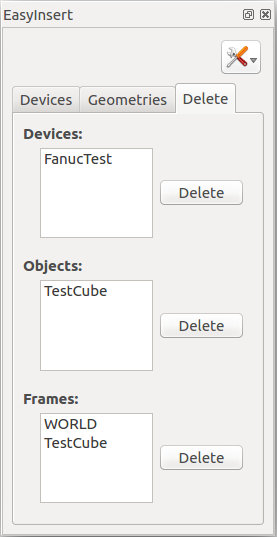
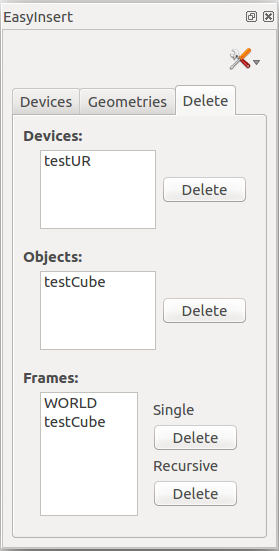
Soon done

diff --git a/Rapport/Standardfiler/The_GUI.tex b/Rapport/Standardfiler/The_GUI.tex
@@ -126,75 +126,10 @@ The dialog class can be extended formidably as a dialog library to create dialog
 
 \clearpage
 
-\section{The Plug-In}
 
-This section will explore the EasyInsert plugin created in this project. The user interface of the plugin will be explained while not going into much detail about how the those functionalities are made. When the use of the plugin has been explained, the section will delve into the implementation of the plugin. The plugin uses the stand alone classes creator, loader and dialog to achieve many of it's functionalities, while relying on the Qt library to set up the GUI elements and the RW libraries. Lastly the future of the plugin will be discussed in this section.
 	
-\subsection{The User Interface}
-\label{sec:UserInterface}
-This section explores the user interface of the plugin. When the plugin is loaded and opened, the user is met with figure~\ref{fig:EasyInsertDevice}. This is the Device tab of EasyInsert and from here it is possible to select a device listed and load it into the WorkCell by pressing the Load button. Upon pressing Load, the user is prompted with a dialog window where the user can specify options about the loaded device. Figure~\ref{fig:loadDialog} is the exact dialog window the user would see after selecting a device and pressing the load button. The user can now give the device a unique name, select a frame that the device should be on and specify the configurations such as displacement and rotation. A user can now select e.g. a fanuc robot arm, as the one on figure~\ref{fig:FANUCLRM200}, and insert it. Afterwards the user can then select another device, let's say some kind of hand device, and now insert that device on the end frame of the fanuc. The hand device now acts as the end effector of the fanuc, which only took a few clicks to set up. 
-
-\begin{figure}[h] % 3 figures of the tabs
-        \begin{subfigure}[b]{0.32\textwidth}
-                \centering
-                \includegraphics[width=.95\linewidth]{Figures/EasyInsertDevice.png}
-  				\caption{Devices}
- 				\label{fig:EasyInsertDevice}
-        \end{subfigure}%
-        \begin{subfigure}[b]{0.32\textwidth}
-                \centering
-                \includegraphics[width=.95\linewidth]{Figures/EasyInsertGeo.png}
-  				\caption{Geometries}
-  				\label{fig:EasyInsertGeo}
-        \end{subfigure}%
-        \begin{subfigure}[b]{0.32\textwidth}
-                \centering
-                \includegraphics[width=.95\linewidth]{Figures/EasyInsertDelete.png}
-  				\caption{Delete}
-  				\label{fig:EasyInsertDelete}
-        \end{subfigure}%
-        \caption{The three tabs a user can interact with in the plugin. In Devices it is possible to select and load a device. In Geometries the user can click an icon (representing a geometry) which then prompts a dialog window with options regarding the insertion of said geometry. In Delete a user can select either a Device, Object or Frame to delete it.}\label{fig:EasyInsertTabs}
-\end{figure}
-
-It should be noted, that the first time EasyInsert is loaded and opened, the device tab shows the root content of the operating system. Thus the user needs to change the path of the list shown in the Device tab to a path containing any desired devices. In the right top corner of the plugin is a tool bar button (the only button in the tool bar so far) called settings. Clicking this button and choosing Libraries will prompt the user with the dialog window on Figure~\ref{fig:settingsDialog}. The user can here see what path is used and change it with the [...] button. The [...] button shows a new dialog window where the user can navigate his/her OS and specify the path that should be shown in the device tab.\\
-
-\begin{figure}[h] % 3 figures of dialog windows
-     \centering
-     \begin{subfigure}[b]{0.45\textwidth}
-	  \includegraphics[scale=0.7]{Figures/EasyInsertCubeDialog.png}
-       \caption{Cube insertion dialog window}\label{fig:cubeDialog}
-     \end{subfigure}
-     \hfill
-     \begin{minipage}[b]{0.45\textwidth}
-       \begin{subfigure}[b]{\linewidth}
-	    \includegraphics[scale=0.7]{Figures/EasyInsertLoadDialog.png}
-         \caption{Device insertion dialog window}\label{fig:loadDialog}
-       \end{subfigure}\\[\baselineskip]
-       \begin{subfigure}[b]{\linewidth}
-	    \includegraphics[scale=0.7]{Figures/settingsDialogWindow.png}
-         \caption{Settings of device path dialog window}\label{fig:settingsDialog}
-       \end{subfigure}
-     \end{minipage}
-     \caption{Three, out of many, dialog windows the user can experience and interact with when using EasyInsert.}\label{fig:EasyInsertDialogs}
-\end{figure}
-
-The Geometries tab shows a grid of icons, see figure~\ref{fig:EasyInsertGeo}. These icons represent either geometric primitives or frames that can be inserted into the WorkCell. Currently there are the following objects in the geometric tab, from top row to bottom:
-\begin{enumerate*}[font={\color{red!50!black}\bfseries}]
-\item Cube.
-\item Cylinder.
-\item Cone.
-\item Plane.
-\item Sphere.
-\item Tube.
-\item Fixed frame.
-\item Movable frame.
-\end{enumerate*}
-These icons are all buttons the user can click, and after a click has occurred a dialog window appears with options regarding the insertion of said geometry. When the user hovers over a button in the Geometries tab, a tool tip identifying the icon appears, telling the user what sort of object it is. Figure~\ref{fig:cubeDialog} is the dialog window prompted when clicking the cube icon, and as seen, the user can specify a name for the geometry, select a reference frame and set the displacement and rotation configurations, just like when inserting a device. Though for a geometric primitive, like the cube, the user can also specify the dimensions of the geometric figure. The user can also specify whether the primitive should create a movable frame to associate the object with, or if the user want to use an existing frame.\\
-
-The delete tab, as seen on figure~\ref{fig:EasyInsertDelete}, is a tab where the user can select a device, object or a frame and press the Delete button to remove said item from the WorkCell. The Devices list, shown in the delete tab, shows a device name. This means that when the user deletes a device, the frames associated with that device are now "free", i.e. the device property is deleted, but the frames and objects are still in the WorkCell. These object and frames will now show up in the Object list and the Frames list of the delete tab, and the user can now remove the frames and objects from the WorkCell. The Object list of the delete tab only deletes objects, but if the user selects a frame from the Frame list and deletes it, all objects associated with that frame will also be deleted. Furthermore, if the user selects a frame from the Frames list and deletes it, all children of said frame will also be deleted. It should be noted, that the Frames list of the delete tab does not update properly because of an internal bug in RWS, this means that when the user deletes a frame, the frame will still appear in the list, but if the user looks in the TreeView plugin, or searches the WorkCell, the user will notice that the frame has actually been deleted. The user is then able to delete a frame twice, which will cause a segmentation error and crash RWS, this is further discussed in section~\ref{sec:eiProblems}
-
-\subsection{EasyInsert Implementation}
-This chapter will go through how EasyInsert achieved the functionalities and interfaces mentioned in section~\ref{sec:UserInterface} with the help from the dialog, creator and loader classes. 
+\section{Implementation of the User Interface}
+This chapter will go through how EasyInsert achieved the functionalities and interfaces mentioned in section~\ref{sec:UserInterface}. The plugin uses the RW libraries, the stand alone classes creator, loader and dialog to achieve many of it's functionalities, while relying on the Qt library to set up the GUI elements.\\ 
 
 On figure~\ref{fig:eiClass} the constructor for the plugin is seen. Before creating the widgets making up the plugin, all settings are set up with the setupSettings() function on line 4 (discussed in section~\ref{sec:Settings}). The parent widget of the plugin is then created which is a QScrollArea. A QScrollArea widget provides a scrolling view onto another widget (the child). The QScrollArea widget is created on line 5 and the widget is then set to be resizeable. When a QScrollArea is set to be resizeable, the child widget of the QScrollArea will automatically be resized so to either avoid scroll bars (decrease size of child) or utilize extra space (increase size of child). It should be noted that when QScrollArea has a composite child with a layout, the size policy of that layout will determine the size (or resize) of the widget. The composite child is created on line 7 and then a vertical layout is created. QToolbar is then created on line 9 using the createToolBar() function (discussed in section~\ref{sec:ToolBar}), the tool bar is then added to the layout and it is right aligned. On line 12 the QTabWidget is created, a QTabWidget is a widget with stacked tabs of widgets, where the user can select a tab and see the widget associated with that tab. To create a tab, a QWidget needs to be passed to the addTab function and a name can be given as well. On line 13 to 15 all the tabs are created with the help of createDevTab() (section~\ref{sec:DeviceTab}), createGeoTab() (section~\ref{sec:GeoTab}) and createDeleteTab() (section~\ref{sec:DelTab}) which all returns a QWidget. The QTabWidget is then added to the layout and set to the composite child which in turn is set to the QScrollArea widget and finally the QScrollArea widget is set to the QDockWidget of RWS(this happens when the plugin is loaded). 
 
@@ -227,7 +162,7 @@ EasyInsert::EasyInsert():
 \label{fig:eiClass} 	
 \end{figure}
 
-\subsubsection{Settings}
+\subsection{Settings}
 \label{sec:Settings}
 Defining settings for an application is a common thing. It was therefore decided that EasyInsert should have some way to set settings. Settings for the plugin is stored in a XML file. The only current setting a user can set is, as mention in~\ref{sec:UserInterface}, the path for the library in the device tab, which is also the 2. nice to have requirement and in turn indirectly also fulfils the need to have requirement 3.1. Though it should be easy to extend the plugin to have more settings, and even other utilities through the tool bar if needed.\\
 
@@ -298,7 +233,7 @@ if (settingsDialog->result() == QDialog::Accepted) {
 \label{fig:settingsCodeReturnDialog} 	
 \end{figure}
 
-\subsubsection{Tool Bar}
+\subsection{Tool Bar}
 \label{sec:ToolBar}
 The settings button, as noted in~\ref{sec:UserInterface}, is the only button available in the tool bar so far, and thus the extend of the tool bar will be shortly discussed in this chapter.
 The tool bar is constructed in the createToolBar() function (figure~\ref{fig:settingsToolBarCode}) and it is pretty straight forward. The only hiccup can be managing the menu's for the buttons in the tool bar. We create a tool bar with the QToolBar class and the buttons with QToolButton. After the toolbar and button(s) has been created, the icons and tool tips are set. On line 5 a QMenu is created, QMenu is a selection menu. Afterwards a QAction is created as well, which is an abstract user interface action that can be inserted into widgets. We then add the action to the menu. On line 8 the settingsButton gets the menu set, followed by a pop up mode selection. Lastly we add the settingsButton to the toolBar, and we connect the settingsAction to the settings() slot. The settings() slot is the function that creates the settings dialog window on figure~\ref{fig:settingsDialog} and waits for the user to select the settings, before saving them, like on figure~\ref{fig:settingsCodeReturnDialog}.
@@ -327,7 +262,7 @@ QToolBar* EasyInsert::createToolBar()
 \label{fig:settingsToolBarCode} 	
 \end{figure}
 
-\subsubsection{Devices Tab}
+\subsection{Devices Tab}
 \label{sec:DeviceTab}
 This section discusses the implementation of the Devices tab from figure~\ref{fig:EasyInsertDevice}, which also enables the 3. need to have requirement. The Devices tab is made with the function createDevTab(), which returns the composite widget making up the Devices tab. createDevTab() can be seen on figure~\ref{fig:deviceTabCode}.
 It should be noted that the procedure of setting up the widget is very similar to that of the EasyInsert constructor on figure~\ref{fig:eiClass}, i.e. using QScrollArea as the parent of a composite widget. Thus only the composite child will be discussed.  The composite child is created on line 5 and then a vertical layout is created. On line 7 a QListView is created, this is a widget that provides a list view onto a model. Afterwards a QFileSystemModel is created and put onto the list view. The QFileSystemModel provides a data model for the local file system. Following, the \_settingsMap with the Devices library path is read, and then used to set the root path on the model with the QFileSystemModel public function setRootPath(const QString \&newpath). This actually installs a QFileSystemWatcher to monitor the path and update the QFileSystemModel accordingly. The view of the QListView's root index is then set to the model's root path, so as the content of the QFilSystemModel is shown in the list. The load button is then created and connected to the loadDevice() slot which creates the dialog window shown on figure~\ref{fig:loadDialog}. Finally the widgets, the view and the button, are added to the layout and the composite widget gets the layout set. The composite widget has now been made, so the QScrollArea is then imposed onto the composite widget and returned. 
@@ -359,7 +294,7 @@ QWidget* EasyInsert::createDevTab(){
 \label{fig:deviceTabCode} 	
 \end{figure}
 
-\subsubsection{Geometries Tab}
+\subsection{Geometries Tab}
 \label{sec:GeoTab}
 This section discusses the implementation of the Geometries tab from figure~\ref{fig:EasyInsertGeo}, which enables the need to have requirements 1, 2 and 2.1. The Geometries tab is made with the function createGeoTab() and it uses a similar procedure as the createDevTab(). The differences between the Devices tab and the Geometries tab, are the children of the composite widget, a QGridLayout, and that the QScrollArea is not set to be resizeable. The reason for different children of the composite widget is quite obvious (this tab should show something else), and a QGridLayout was chosen because it is a convenient layout to present the child widgets in. The resizeable option of the QScrollArea is not used because of aesthetic reasons. Since, if the resizeable option was on, the child widgets could either be scaled to ridiculous sizes or, if the childs widgets have fixed sizes, have a lot of spacing. 
 
@@ -375,19 +310,20 @@ The children of the composite widget are eight QToolButtons. QToolButtons were u
 \end{enumerate*}    
 Likewise the composite widget then gets the layout set, and the QScrollArea is imposed onto the composite widget and returned.
 
-\subsubsection{Delete Tab}
+\subsection{Delete Tab}
 \label{sec:DelTab}
 
 This section discusses the implementation of the Delete tab from figure~\ref{fig:EasyInsertDelete}, which fulfils the need to have requirement 4. The Delete tab is made with the function createDeleteTab() and it uses are similar procedure as the createDevTab() function. The only difference between the Devices tab and the Delete tab are the children of the composite widget.
 
-The composite widget of the Delete tab has three composite children in a vertical layout. Each composite child is a QGroupBox, one for Devices, Objects and Frames with each their own layout. They all have a QListWidget and a QPushButton widget added to their layout. The QListWidget is similar to the QListview used in the Device tab, but whereas QListWidget uses a more classic item-based interface for adding and removing items, it lacks in flexibility. However the QListWidget was still preferred because of it's more straight forward use. It should be noted that only the names of the devices, objects and frames will be saved in the list and not pointers to the actual objects. Each button is then connected to a proper delete slot. Respectively \begin{enumerate*}[font={\color{red!50!black}\bfseries}]
+The composite widget of the Delete tab has three composite children in a vertical layout. Each composite child is a QGroupBox, one for Devices, Objects and Frames with each their own QGridLayout. They all have a QListWidget their layout. The QListWidget is similar to the QListview used in the Device tab, but whereas QListWidget uses a more classic item-based interface for adding and removing items, it lacks in flexibility. However the QListWidget was still preferred because of it's more straight forward use. It should be noted that only the names of the devices, objects and frames will be saved in the list and not pointers to the actual objects. The Devices view and the Objects view each have a QPushButton added to their layout, while the Frames view has a composite widget with two QLabels and two QPushButtons in a vertical layout added to the QGridLayout of the Frames QGroupBox composite widget. The buttons are then connected to their proper delete slot. Respectively \begin{enumerate*}[font={\color{red!50!black}\bfseries}]
 \item deleteDev()
 \item deleteObj()
+\item deleteSingleFrame()
 \item deleteFrame().
 \end{enumerate*} 
-The three QGroupBoxs are then added to the vertical layout and the composted widget gets the layout set. The QScrollArea is then imposed onto the composited widget and returned.
+The three QGroupBoxes are then added to the vertical layout of the Delete tab composted widget and the layout is set. The QScrollArea is then imposed onto the composited widget and returned.
 
-\subsubsection{The Slots}
+\subsection{The Slots}
 \label{sec:eiSlots}
 In this section the slots of EasyInsert will be discussed, though the stateChangedListener() slot is left out to be discussed in section~\ref{sec:eiStateChangedListener}.\\
 
@@ -396,33 +332,41 @@ The Devices tab has only one button connected to a slot, loadDevice(), this slot
 All the slots that the buttons from the Geometries tab are connected to are heavily boilerplated code. They all take advantage of the dialog class to construct an interactable dialog window (discussed in section~\ref{sec:usingTheDialogClass}) so the user can define parameters such as need to have requirements 1.1, 1.2 and 2.2 which are then passed to the creator class to load the desired geometry (discussed in section~\ref{subsec:iframAGeomUsing}).\\
 
 The slots that the Delete tab buttons are connected to are all delete functionalities. They all make use of the remove function provided by the RW models WorkCell namespace. deleteDev() and deleteObj() are very similar in structure, they both check if anything has been selected in their list and act if so. They use the name of the device/object selected in the list to find the device/object with respectively findDevice(const std::string \&name) and findObject(const std::string \&name) and then deletes them with remove(rw::common::Ptr<Device> device) and remove(rw::common::Ptr<Object> object).
-deleteFrame() however is a little more tricky, since it was decided that when the user removes a frame, all associated objects also should be deleted as well, furthermore if the frame has any children, these should also be deleted. This led to a recursive solution, because RW does not support removal of frames with children. Figure~\ref{fig:eiDeleteFrames} is the code for the deleteFrame() slot and the recursive code is the function deleteChildren(rw::kinematics::Frame* frame, rw::models::WorkCell::Ptr wc) (figure ~\ref{fig:eiDeleteChildren}). 
+deleteSingleFrame() and deleteFrame() however are more tricky, since frames can have children and it was decided that when the user removes a frame, all associated objects also should be deleted as well.
+
+deleteSingleFrame() is shown on figure~\ref{fig:eiDeleteSingleFrame}, as seen, some swapping of the WorkCell of RobWorkStudio is happening on line 6, 8, 9, 15 and 23, this will be explained in section ~\ref{eiProblems}, because it is in fact a recurring thing that is done in all the slots.
+The deleteSingleFrame() function first checks if anything has been selected on the Frame view, and if not it returns. If a frame was selected, the function then finds a pointer to the actual frame and then checks whether that frame has any children with the getChildren(const State \&state) function. If it has any children the WorkCell is swapped back, RobWork then throws a warning and the deletion is then ignored. Though if the frame had no children, all the objects associated with the frame will be removed with the removeAllOjects(...) function on line 16. Finally the frame is checked if it is the WORLD frame and removed if it is not, the WorkCell is also swapped back.
 
 \begin{figure}[h] % Code of delete frame
 \centering
 \lstset{language=C++} 
 \begin{lstlisting}[frame=single]  
-void EasyInsert::deleteFrame()
+void EasyInsert::deleteSingleFrame()
 {
-    if (_frameWidget->currentItem() != NULL) {
-        QListWidgetItem* item = _frameWidget->currentItem();
-        rw::models::WorkCell::Ptr wc = getRobWorkStudio()->getWorkCell();
-        rw::kinematics::Frame* frame = wc->findFrame(item->text().toStdString());
-        rw::models::WorkCell::Ptr dummy = rw::common::ownedPtr(new rw::models::WorkCell("dummy")); // Create dummy wc for swap
-        getRobWorkStudio()->setWorkCell(dummy); // Temporarily swap out wc from rws
-        deleteChildren(frame, wc); // find and delete children
+    if (_frameWidget->currentItem() == NULL) 
+    	return;
+    QListWidgetItem* item = _frameWidget->currentItem();
+    rw::models::WorkCell::Ptr wc = getRobWorkStudio()->getWorkCell();
+    rw::kinematics::Frame* frame = wc->findFrame(item->text().toStdString());
+    rw::models::WorkCell::Ptr dummy = rw::common::ownedPtr(new rw::models::WorkCell("dummy")); // Create dummy wc for swap
+    getRobWorkStudio()->setWorkCell(dummy); // Temporarily swap out wc from rws
+    rw::kinematics::Frame::iterator_pair iter = frame->getChildren(wc->getDefaultState());
+    if( iter.first!=iter.second ){
         getRobWorkStudio()->setWorkCell(wc); // Swap back wc into rws
-    }
-    else
-        rw::common::Log::log().info() << "select something " << std::endl;
+        RW_THROW("Frame has staticly connected children and therefore cannot be removed from tree!");
+        return;
+        }
+    removeAllObjects(frame,wc);
+    if(frame->getName() != "WORLD")
+        wc->remove(frame);
+    getRobWorkStudio()->setWorkCell(wc); // Swap back wc into rws
 }
 \end{lstlisting}
-\caption{This figure shows the deleteFrame() slot which is called from the Delete tab when deleting frames. This slot will start a recursive deletion process.}
-\label{fig:eiDeleteFrames} 	
+\caption{This figure shows the deleteSingleFrame() slot which is called from the Delete tab when deleting frames. This slot will delete a selected frame and all associated objects.}
+\label{fig:eiDeleteSingleFrame} 	
 \end{figure}
 
-deleteFrame() has a similar structure to deleteDev() and deleteObj() up to the point when it calls the recursive deleteChildren(...) function. As seen on figure~\ref{fig:eiDeleteFrames} line 3, it is first checked if there is a selected item, and if there is, the name is used to find the frame, just like in deleteDev() and deleteObj(). Though on line 5, 7, 8 and 10 some swapping of the WorkCells is happening, this will be explained in section ~\ref{eiProblems}, this is in fact a recurring thing that is done in all the slots if the source code is inspected. 
-deleteChildren(...) is then called with the selected frame and WorkCell on line 9.
+deleteFrame() has a similar structure to deleteDev() and deleteObj() up to the point when it calls the recursive deleteChildren(...) function. deleteChildren(...), see figure~\ref{fig:eiDeleteChildren}, works as a depth-first search method, i.e. the code traverses along a branch in the parent/child hierarchy for as long as possible before backtracking. The base case of the recursion is seen on line 12 when a frame has no children. The children are found with the getChildren(...) function, which returns a iterator pair for the children of that frame. This iterator pair is then run though a loop and the children stored are in a vector. When a frame is childless, the objects are removed and the frame deleted as with the deleSingleFrame(). Of course if the WORLD frame is selected the deletion is ignored.
 
 \begin{figure}[h] % Code of delete children
 \centering
@@ -430,23 +374,20 @@ deleteChildren(...) is then called with the selected frame and WorkCell on line 
 \begin{lstlisting}[frame=single]  
 void EasyInsert::deleteChildren(rw::kinematics::Frame* frame, rw::models::WorkCell::Ptr wc)
 {
-    std::vector<rw::kinematics::Frame*> frames = wc->getFrames();
-    rw::kinematics::State state = wc->getDefaultState();
-    for (size_t i = 0; i < frames.size(); i++)
-        if (frames[i]->getParent(state) == frame)
-            deleteChildren(frames[i],wc);
-    std::vector<rw::models::Object::Ptr> object = wc->getObjects();
-    for (size_t i = 0; i < object.size(); i++) {
-        const std::vector <rw::kinematics::Frame*>& objectFrames = object[i].get()->getFrames();
-        for (size_t j = 0; j < objectFrames.size(); j++) {
-            if (objectFrames[j] == frame) {
-                wc->removeObject(object[i].get());
-                break;
-            }
+    if (frame->getName() == "WORLD")
+    	return;
+    rw::kinematics::Frame::iterator_pair iter = frame->getChildren(wc->getDefaultState());
+    std::vector<rw::kinematics::Frame*> children;
+    if ( iter.first!=iter.second){
+        for (; iter.first!=iter.second; iter.first++) {
+            rw::kinematics::Frame* child = &(*(iter.first));
+            children.push_back(child);
         }
+        for (size_t i = 0; i < children.size(); i++) 
+            deleteChildren(children[i],wc);    
     }
-    if (frame->getName() != "WORLD") {
-        wc->remove(frame);
+    removeAllObjects(frame,wc);
+    wc->remove(frame);
     }
 }
 \end{lstlisting}
@@ -454,10 +395,9 @@ void EasyInsert::deleteChildren(rw::kinematics::Frame* frame, rw::models::WorkCe
 \label{fig:eiDeleteChildren} 	
 \end{figure}
 
-deleteChildren(...) works as a depth-first search method, i.e. the code traverses along a branch in the parent/child hierarchy for as long as possible before backtracking. The base of the recursion is seen on line 6, when a frame is found that is not a parent, then that frame must be childless and OK for deletion.
-When a childless frame has been found, all objects associated with this frame needs to be deleted as well. This is done in the for loop on line 9, a vector of all the objects in the WorkCell is made, and then every object's associated frames is inspected on line 12. If there is a match, then the object is removed and then repeated until all objects has been run through. Of course if the user tries to delete the WORLD frame, then the deletion is silently ignored on line 18, because the WORLD frame should not be deleted.
 
-\subsubsection{The StateChangedListener}
+
+\subsection{The StateChangedListener}
 \label{sec:eiStateChangedListener}
 
 The stateChangedListener() is a special slot which is subscribed to the stateChangedEvent() in RWS. That means, whenever a change of state in a WorkCell occurs, the stateChangedEvent() emits a signal that the stateChangedListener() listens after and can react to. 
@@ -481,14 +421,18 @@ Finally a vector of all the objects of the WorkCell will be compared to the obje
 As noted in section~\ref{sec:UserInterface}, there are problems with updating the Frames view list properly, this issue will be discussed in section~\ref{sec:eiProblems}.
 
 
-\subsubsection{Problems}
+\subsection{Problems}
 \label{sec:eiProblems}
-This section will go through problems regarding the implementation of the plugin. Some of the problems have been temporarily solved while suggestions for solving others, or the root of the problems, are given as well. \\
+This section will go through problems regarding the implementation of the plugin. Some of the problems have been temporarily solved, while suggestions for solving others or the root of the problems are given as well. \\
 
 As noted in section~\ref{sec:eiSlots}, when inserting and deleting both devices and geometries, the WorkCell of RWS will temporally be swapped with a dummy WorkCell while working on the WorkCell. If this was not done, then RWS would seem to duplicate seemingly random elements of the insertions and in general behave unwanted when inserting devices or geometries. This is most likely due to state update problems of RWS, because if the WorkCell was inspected, disregarding RWS, there seemed to be no problem at all. In fact, if no swapping was done upon inserting, a state change after the insertion would update the WorkCell of RWS properly, indicating problems with the update mechanism of RWS. Swapping the WorkCell out of RWS when inserting was deemed to be a fine solution to the problem, since it is a pretty cheap action. Though the problem should be inspected more in depth to improve the update mechanism of RWS, this of course is out of scope for this project. 
-However a problem still exists regarding updating the state when deleting frames, as noted in section~\ref{sec:UserInterface}. The Frames view of the Delete tab is not updated properly, even though the frames has been deleted correctly. When a new state change happens the Frames view of the Delete tab is then updated correctly. The interesting point is that if the deleteFrame() slot is rewritten to not be recursive, the problem seems to disappear, though now frames can only be deleted one at a time and only frames with no children. This indicates that there might be some issues with the internal state cache of RWS, which then would have to be looked into to remove the problem when deleting recursively.\\
 
 If geometries are created with the same base frame, the objects view will show the name of that frame, because objects are named after the base frame. This will in turn cause problems when deleting objects with the same base frame, because they can't be identified easily. This means no matter which of the objects are chosen for deletion (they all have the same name), the first object created will always be deleted and so forth. A solution to this problem could be to use QMetaType \cite{QMetaType} to declare a custom type compatible with QVariant \cite{QVariant} of the Object class from RWS. Using QVariant to store a copy of the Object will then allow one to set the data of a QListWidgetItem to that QVariant value. A user would then be able to, though a tool tip, when selecting a item from the Object view see all the contents (e.g. models and geometries) of that object. The deleteObj() slot would then have to be extended to check whether the object it is deleting contains the same contents.
+
+As mentioned in section~\ref{sec:UserInterface}, there are problems with the delete functionalities. 
+
+Deleting a device is working fine, but when trying to delete the frames after the device property has been removed causes errors. E.g. after removing the device property of a inserted fanuc like the one on figure~\ref{fig:FANUCLRM200}, removing the frames then causes a segmentation fault, whereas doing the same for a UR-6-85-5-A arm is no problem at all. It would then the draw ones suspicion toward the removeFrame(...) function from the RobWork library having problems with the frame type. However, the segmentation fault was actually tracked to happen when the WorkCell was swapped back into RobWorkStudio with the setWorkCell(...) function, and weirdly enough, if e.g. a moveable frame is present in the WorkCell while trying to delete the fanuc frames, then no segmentation fault happens. This clearly suggests that somehow the setWorkCell(...) causes the error.
+
 
 \subsection{Future of the Plugin}
 \label{sec:futureOfThePlugin}

diff --git a/Rapport/Standardfiler/UserInterface.tex b/Rapport/Standardfiler/UserInterface.tex
@@ -1,0 +1,62 @@
+\section{The User Interface}
+\label{sec:UserInterface}
+This section explores the user interface of the plugin. When the plugin is loaded and opened, the user is met with figure~\ref{fig:EasyInsertDevice}. This is the Device tab of EasyInsert and from here it is possible to select a device listed and load it into the WorkCell by pressing the Load button. Upon pressing Load, the user is prompted with a dialog window where the user can specify options about the loaded device. Figure~\ref{fig:loadDialog} is the exact dialog window the user would see after selecting a device and pressing the load button. The user can now give the device a unique name, select a frame that the device should be on and specify the configurations such as displacement and rotation. A user can now select e.g. a fanuc robot arm, as the one on figure~\ref{fig:FANUCLRM200}, and insert it. Afterwards the user can then select another device, let's say some kind of hand device, and now insert that device on the end frame of the fanuc. The hand device now acts as the end effector of the fanuc, which only took a few clicks to set up. 
+
+\begin{figure}[h] % 3 figures of the tabs
+        \begin{subfigure}[b]{0.32\textwidth}
+                \centering
+                \includegraphics[width=.95\linewidth]{Figures/EasyInsertDevice.png}
+  				\caption{Devices}
+ 				\label{fig:EasyInsertDevice}
+        \end{subfigure}%
+        \begin{subfigure}[b]{0.32\textwidth}
+                \centering
+                \includegraphics[width=.95\linewidth]{Figures/EasyInsertGeo.png}
+  				\caption{Geometries}
+  				\label{fig:EasyInsertGeo}
+        \end{subfigure}%
+        \begin{subfigure}[b]{0.32\textwidth}
+                \centering
+                \includegraphics[width=.95\linewidth]{Figures/EasyInsertDelete.png}
+  				\caption{Delete}
+  				\label{fig:EasyInsertDelete}
+        \end{subfigure}%
+        \caption{The three tabs a user can interact with in the plugin. In Devices it is possible to select and load a device. In Geometries the user can click an icon (representing a geometry) which then prompts a dialog window with options regarding the insertion of said geometry. In Delete a user can select either a Device, Object or Frame to delete it.}\label{fig:EasyInsertTabs}
+\end{figure}
+
+It should be noted, that the first time EasyInsert is loaded and opened, the device tab shows the root content of the operating system. Thus the user needs to change the path of the list shown in the Device tab to a path containing any desired devices. In the right top corner of the plugin is a tool bar button (the only button in the tool bar so far) called settings. Clicking this button and choosing Libraries will prompt the user with the dialog window on Figure~\ref{fig:settingsDialog}. The user can here see what path is used and change it with the [...] button. The [...] button shows a new dialog window where the user can navigate his/her OS and specify the path that should be shown in the device tab.\\
+
+\begin{figure}[h] % 3 figures of dialog windows
+     \centering
+     \begin{subfigure}[b]{0.45\textwidth}
+	  \includegraphics[scale=0.7]{Figures/EasyInsertCubeDialog.png}
+       \caption{Cube insertion dialog window}\label{fig:cubeDialog}
+     \end{subfigure}
+     \hfill
+     \begin{minipage}[b]{0.45\textwidth}
+       \begin{subfigure}[b]{\linewidth}
+	    \includegraphics[scale=0.7]{Figures/EasyInsertLoadDialog.png}
+         \caption{Device insertion dialog window}\label{fig:loadDialog}
+       \end{subfigure}\\[\baselineskip]
+       \begin{subfigure}[b]{\linewidth}
+	    \includegraphics[scale=0.7]{Figures/settingsDialogWindow.png}
+         \caption{Settings of device path dialog window}\label{fig:settingsDialog}
+       \end{subfigure}
+     \end{minipage}
+     \caption{Three, out of many, dialog windows the user can experience and interact with when using EasyInsert.}\label{fig:EasyInsertDialogs}
+\end{figure}
+
+The Geometries tab shows a grid of icons, see figure~\ref{fig:EasyInsertGeo}. These icons represent either geometric primitives or frames that can be inserted into the WorkCell. Currently there are the following objects in the geometric tab, from top row to bottom:
+\begin{enumerate*}[font={\color{red!50!black}\bfseries}]
+\item Cube.
+\item Cylinder.
+\item Cone.
+\item Plane.
+\item Sphere.
+\item Tube.
+\item Fixed frame.
+\item Movable frame.
+\end{enumerate*}
+These icons are all buttons the user can click, and after a click has occurred a dialog window appears with options regarding the insertion of said geometry. When the user hovers over a button in the Geometries tab, a tool tip identifying the icon appears, telling the user what sort of object it is. Figure~\ref{fig:cubeDialog} is the dialog window prompted when clicking the cube icon, and as seen, the user can specify a name for the geometry, select a reference frame and set the displacement and rotation configurations, just like when inserting a device. Though for a geometric primitive, like the cube, the user can also specify the dimensions of the geometric figure. The user can also specify whether the primitive should create a movable frame to associate the object with, or if the user want to use an existing frame.\\
+
+The delete tab, as seen on figure~\ref{fig:EasyInsertDelete}, is a tab where the user can select a device, object or a frame and press either the Single Delete or Recursive Delete button to remove said item from the WorkCell. The Devices list, shown in the delete tab, shows a device name. This means that when the user deletes a device, the frames associated with that device are now "free", i.e. the device property is deleted, but the frames and objects are still in the WorkCell. These object and frames will now show up in the Object list and the Frames list of the delete tab, and the user can now remove the frames and objects from the WorkCell. The Object list of the delete tab only deletes objects, but if the user selects a frame from the Frame list and deletes it with either the Single Delete or Recursive Delete, all objects associated with that frame will also be deleted. Single Delete will only delete the selected frame, and if that frame has children, then the user will be noticed and the deletion is cancelled. Recursive Delete deletes the frame and all children of said frame. It should be noted that there are various problems with the frame delete functionalities, certain scenarios will cause a segmentation fault (properly a rogue pointer somewhere) in the program because of different reasons. These issues will be further discussed in section~\ref{sec:eiProblems}.

diff --git a/Rapport/Main.tex b/Rapport/Main.tex
@@ -41,6 +41,9 @@
 \input{Standardfiler/Plugin_analysis}
 \clearpage
 
+\input{Standardfiler/UserInterface}
+\clearpage
+
 \input{Standardfiler/Inserting_frames_and_geometries}
 \clearpage
 
